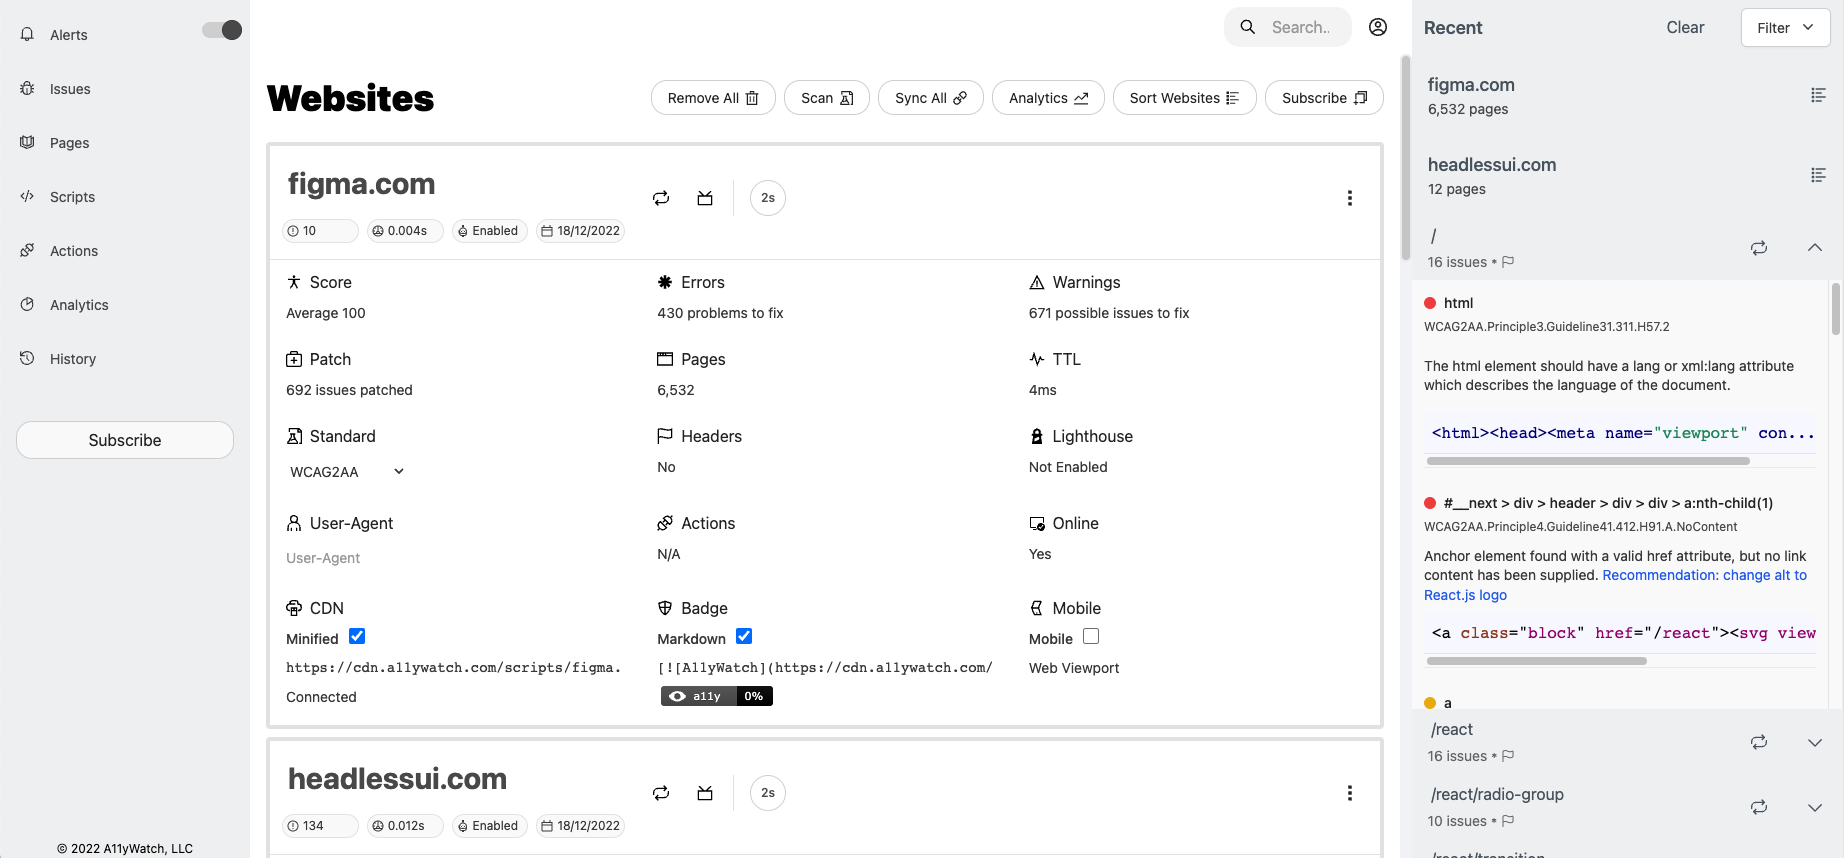
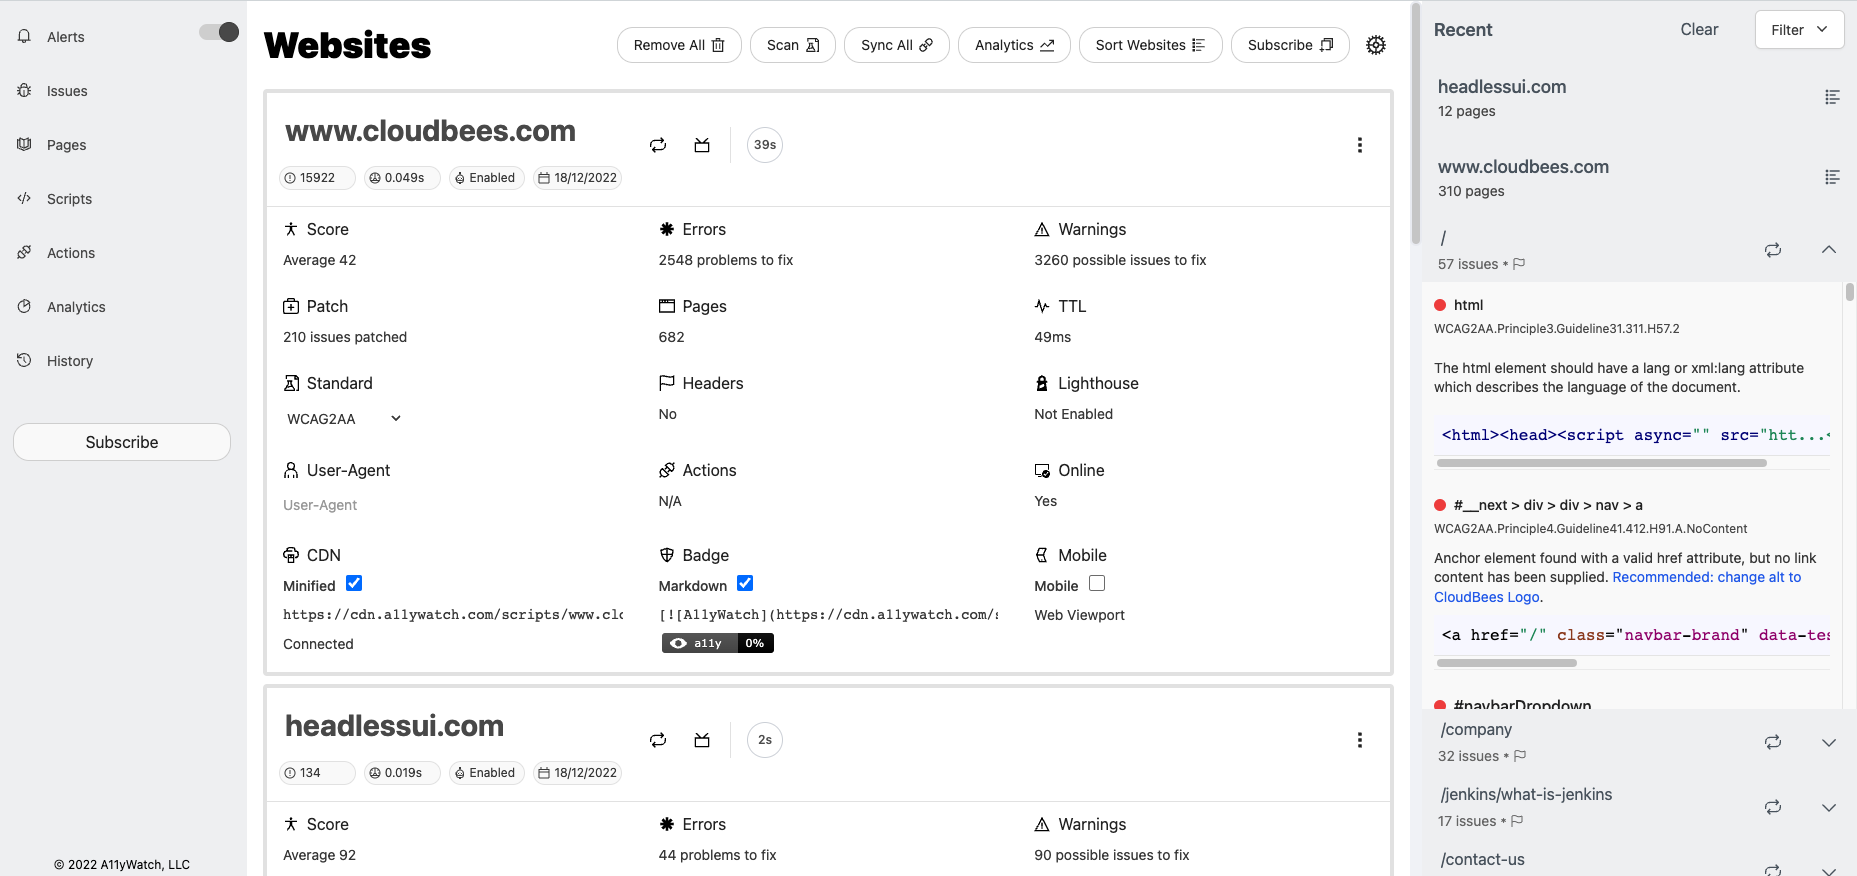
chore(app): revamp dashboard layout center

diff --git a/src/components/general/drawers/drawer.tsx b/src/components/general/drawers/drawer.tsx
@@ -3,7 +3,6 @@ import dynamic from 'next/dynamic'
 import Head from 'next/head'
 import { useUserData } from '@app/data'
 import { UpgradeBanner } from '@app/components/general/upgrade-banner'
-import { useAuthContext } from '@app/components/providers/auth'
 import { AuthedMenu } from '../navigation'
 import { NavBar } from '../navigation/navbar'
 import { FixedCopyRight } from '../fixed-copy-right'
@@ -26,25 +25,16 @@ const MiniPlayer = dynamic(
 export type DrawerWrapperProps = {
   route?: string
   title?: string
-  dataSourceMap: any
   loading?: boolean
 }
 
-function MainDrawerContainerComponent({
-  route,
-  dataSourceMap,
-  loading,
-}: DrawerWrapperProps) {
+function MainDrawerContainerComponent({ route, loading }: DrawerWrapperProps) {
   return (
     <div
       className={`flex flex-col overflow-x-hidden w-[55px] sm:w-[15vw] md:w-[18vw] lg:w-[250px] max-w-[250px] relative print:hidden overflow-hidden`}
     >
       <div className='fixed flex flex-col w-[inherit] overflow-hidden h-full bg-lightgray z-10 space-y-3'>
-        <AuthedMenu
-          dataSourceMap={dataSourceMap}
-          route={route}
-          loading={loading}
-        />
+        <AuthedMenu route={route} loading={loading} />
         <div
           className={
             'xl:visible invisible p-4 place-items-center flex-col flex flex-1'
@@ -66,16 +56,9 @@ export const MainDrawerContainer = memo(MainDrawerContainerComponent)
 export function DrawerWrapperComponent({
   route: routePath,
   title = '',
-  dataSourceMap,
   loading,
 }: DrawerWrapperProps) {
-  return (
-    <MainDrawerContainer
-      route={routePath ?? title}
-      dataSourceMap={dataSourceMap}
-      loading={loading}
-    />
-  )
+  return <MainDrawerContainer route={routePath ?? title} loading={loading} />
 }
 
 export const DrawerWrapper = memo(DrawerWrapperComponent)
@@ -92,9 +75,6 @@ export function NavigationBar({ title = '', authenticated }: any) {
 
 export function DrawerW({ children, route, title }: any) {
   const { data: dataSourceMap, sendConfirmEmail, loading } = useUserData()
-  const { account } = useAuthContext()
-  const { authed } = account
-
   const user = dataSourceMap?.user
 
   return (
@@ -121,19 +101,12 @@ export function DrawerW({ children, route, title }: any) {
       </Head>
       <>
         <div className={'flex overflow-x-inherit md:overflow-x-hidden'}>
-          <DrawerWrapper
-            route={route}
-            title={title}
-            dataSourceMap={dataSourceMap}
-            loading={loading}
-          />
+          <DrawerWrapper route={route} title={title} loading={loading} />
           <main className={'flex-1 overflow-auto'} id='main-content'>
-            <NavigationBar title={title} authenticated={authed} />
             <div
-              style={{
-                maxHeight: `calc(100vh - 55px)`,
-              }}
-              className={'px-3 md:px-4 pt-2 scrollbar overflow-auto'}
+              className={
+                'px-3 md:px-4 pt-2 scrollbar overflow-auto max-h-screen'
+              }
             >
               <RefBanner />
               {children}

diff --git a/src/components/general/menu.tsx b/src/components/general/menu.tsx
@@ -1,14 +1,13 @@
 import { Menu, Transition } from '@headlessui/react'
 import { Fragment, PropsWithChildren, FC } from 'react'
 import { CgProfile } from 'react-icons/cg'
-import { GrMoreVertical } from 'react-icons/gr'
+import { GrMoreVertical, GrSettingsOption } from 'react-icons/gr'
 
 const btnClassName = 'grIcon h-5 w-5'
 
-export const MenuList: FC<PropsWithChildren<{ more?: boolean }>> = ({
-  children,
-  more,
-}) => {
+export const MenuList: FC<
+  PropsWithChildren<{ more?: boolean; settings?: boolean }>
+> = ({ children, more, settings }) => {
   return (
     <div>
       <Menu as='div' className='relative inline-block text-left'>
@@ -16,7 +15,9 @@ export const MenuList: FC<PropsWithChildren<{ more?: boolean }>> = ({
           <Menu.Button
             className={`justify-center rounded-full px-2 py-2 text-sm font-medium text-gray-800 hover:text-gray-700 hover:bg-opacity-30 hover:bg-gray-200 focus:outline-none focus-visible:ring-2 focus-visible:ring-white focus-visible:ring-opacity-75`}
           >
-            {more ? (
+            {settings ? (
+              <GrSettingsOption title='more options' className={btnClassName} />
+            ) : more ? (
               <GrMoreVertical title='more options' className={btnClassName} />
             ) : (
               <CgProfile className={btnClassName} title='profile menu' />

diff --git a/src/pages/web-issues/index.tsx b/src/pages/web-issues/index.tsx
@@ -1,4 +1,4 @@
-import { PageTitle, Drawer } from '@app/components/general'
+import { PageTitle, Drawer, AuthMenu } from '@app/components/general'
 import { List } from '@app/components/general/lists/websites-issues'
 import { metaSetter } from '@app/utils'
 import type { PageProps } from '@app/types'
@@ -6,6 +6,7 @@ import { PageLoader } from '@app/components/placeholders'
 import { useWebsiteContext } from '@app/components/providers/website'
 import { LoadMoreButton } from '@app/components/general/buttons'
 import { useFilterSort } from '@app/data/local'
+import { useAuthContext } from '@app/components/providers/auth'
 
 function WebIssues({ name }: PageProps) {
   const {
@@ -17,11 +18,15 @@ function WebIssues({ name }: PageProps) {
     onLoadMoreIssues,
   } = useWebsiteContext()
   const { sortedData } = useFilterSort(issueData)
+  const { account } = useAuthContext()
 
   return (
     <>
       <Drawer title={name}>
-        <PageTitle title={name} />
+        <PageTitle
+          title={name}
+          rightButton={<AuthMenu authenticated={account.authed} settings />}
+        />
         <PageLoader
           empty={issueData?.length === 0}
           loading={issueDataLoading}

diff --git a/src/pages/settings/index.tsx b/src/pages/settings/index.tsx
@@ -1,5 +1,5 @@
 import React, { useState } from 'react'
-import { PageTitle, Drawer } from '@app/components/general'
+import { PageTitle, Drawer, AuthMenu } from '@app/components/general'
 import { useUserData } from '@app/data'
 import { metaSetter } from '@app/utils'
 import type { PageProps } from '@app/types'
@@ -31,7 +31,10 @@ function Settings({ name }: PageProps) {
   if (!data && !loading) {
     return (
       <div className='px-2'>
-        <PageTitle title={'Settings'} />
+        <PageTitle
+          title={'Settings'}
+          rightButton={<AuthMenu authenticated={data?.user} settings />}
+        />
         <div className='p-4 text-2xl'>
           Authentication required for Settings. Please login to continue.
         </div>
@@ -44,7 +47,10 @@ function Settings({ name }: PageProps) {
   return (
     <>
       <Drawer title={name}>
-        <PageTitle title={'Settings'} />
+        <PageTitle
+          title={'Settings'}
+          rightButton={<AuthMenu authenticated={data?.user} settings />}
+        />
         <h2 className='text-2xl font-bold'>Core Web Vitals</h2>
         <p>
           Core Web Vitals are a set of speed metrics that are part of{' '}

diff --git a/src/components/general/auth-menu.tsx b/src/components/general/auth-menu.tsx
@@ -16,13 +16,14 @@ import { MenuList } from './menu'
 
 type AuthMenuComponentProps = {
   authenticated?: boolean // user logged in
+  settings?: boolean // display settings icon
 }
 
 const menuItemCss =
   'w-full px-4 py-2 md:px-4 h-10 flex text-sm place-items-center place-content-start hover:no-underline hover:bg-gray-100'
 
 // auth menu on the right of the ui
-export function AuthMenu({ authenticated }: AuthMenuComponentProps) {
+export function AuthMenu({ authenticated, settings }: AuthMenuComponentProps) {
   const router = useRouter()
   const [logoutMutation, { data, client }] = useMutation(LOGOUT)
   const { feed } = useWasmContext()
@@ -61,7 +62,7 @@ export function AuthMenu({ authenticated }: AuthMenuComponentProps) {
   ) {
     return (
       <div>
-        <MenuList>
+        <MenuList settings={settings}>
           {router?.pathname !== '/profile' ? (
             <Menu.Item>
               {() => (

diff --git a/src/components/stateless/marketing/dashboard.tsx b/src/components/stateless/marketing/dashboard.tsx
@@ -8,12 +8,15 @@ export function MarketingDashboard(): ReactElement<any, any> | null {
     <SectionContainer>
       <div className='place-content-center place-items-center flex flex-col'>
         <Header3>All the details you need in one location</Header3>
-        <p>Get insight on all of your domains live.</p>
+        <p>
+          Get accessibility insights and vitals across all domains with real
+          time updates.
+        </p>
         <div className='py-4'>
           <Image
-            width={1730}
+            width={1860}
             className={'shadow-xl border rounded'}
-            height={818}
+            height={876}
             quality={100}
             src={'/img/dashboard-example.png'}
             alt={

diff --git a/src/pages/web-pages/index.tsx b/src/pages/web-pages/index.tsx
@@ -5,6 +5,7 @@ import {
   Drawer,
   PriceMemo,
   Spacer,
+  AuthMenu,
 } from '@app/components/general'
 import { List } from '@app/components/general/lists/websites-pages'
 import { useSearchFilter } from '@app/data'
@@ -62,6 +63,7 @@ export function WebPages({ name }: PageProps) {
       <Drawer title={name}>
         <PageTitle
           title={account.activeSubscription ? name : 'Upgrade Required'}
+          rightButton={<AuthMenu authenticated={account.authed} settings />}
         />
         <Spacer height={'8px'} />
         {account.activeSubscription ? <WebPagesPage /> : <PriceMemo navigate />}

diff --git a/src/pages/website-analytics/index.tsx b/src/pages/website-analytics/index.tsx
@@ -5,6 +5,7 @@ import {
   Drawer,
   PriceMemo,
   Spacer,
+  AuthMenu,
 } from '@app/components/general'
 import { List } from '@app/components/general/lists/websites-analytics'
 import { useSearchFilter } from '@app/data'
@@ -67,6 +68,7 @@ function Analytics({ name }: PageProps) {
     <Drawer title={name}>
       <PageTitle
         title={account.activeSubscription ? name : 'Upgrade Required'}
+        rightButton={<AuthMenu authenticated={account.authed} settings />}
       />
       <Spacer height={'8px'} />
       {account.activeSubscription ? <AnalyticsPage /> : <PriceMemo navigate />}

diff --git a/src/pages/scripts/index.tsx b/src/pages/scripts/index.tsx
@@ -5,6 +5,7 @@ import {
   Drawer,
   PriceMemo,
   Spacer,
+  AuthMenu,
 } from '@app/components/general'
 import { List } from '@app/components/general/lists/websites-scripts'
 import { useSearchFilter } from '@app/data'
@@ -71,6 +72,7 @@ function Scripts({ name }: PageProps) {
     <Drawer title={name}>
       <PageTitle
         title={account.activeSubscription ? name : 'Upgrade Required'}
+        rightButton={<AuthMenu authenticated={account.authed} settings />}
       />
       <Spacer height={'8px'} />
       {account.activeSubscription ? <ScriptsPage /> : <PriceMemo navigate />}

diff --git a/src/pages/web-actions/index.tsx b/src/pages/web-actions/index.tsx
@@ -5,6 +5,7 @@ import {
   Drawer,
   PriceMemo,
   Spacer,
+  AuthMenu,
 } from '@app/components/general'
 import { List } from '@app/components/general/lists/websites-pages-actions'
 import { useSearchFilter } from '@app/data'
@@ -62,6 +63,7 @@ function WebActions({ name }: PageProps) {
       <Drawer title={name}>
         <PageTitle
           title={account.activeSubscription ? name : 'Upgrade Required'}
+          rightButton={<AuthMenu authenticated={account.authed} settings />}
         />
         <Spacer height={'8px'} />
         {account.activeSubscription ? (

diff --git a/src/pages/history/index.tsx b/src/pages/history/index.tsx
@@ -6,6 +6,7 @@ import {
   Drawer,
   Spacer,
   PriceMemo,
+  AuthMenu,
 } from '@app/components/general'
 import { useHistory } from '@app/data'
 import { metaSetter } from '@app/utils'
@@ -49,6 +50,7 @@ const History = ({ name }: PageProps) => {
       <Drawer title={name}>
         <PageTitle
           title={account.activeSubscription ? name : 'Upgrade Required'}
+          rightButton={<AuthMenu authenticated={account.authed} settings />}
         />
         <Spacer height={'8px'} />
         {account.activeSubscription ? <HistoryPage /> : <PriceMemo navigate />}

diff --git a/src/components/stripe/formless.tsx b/src/components/stripe/formless.tsx
@@ -30,7 +30,7 @@ export const CheckoutFormless = ({ onToken, plan, price, disabled }: Props) => {
         <Button
           type='submit'
           disabled={disabled}
-          className={`font-bold border text-base px-8 rounded-sm md:px-12 md:rounded-sm min-w-[250px] ${
+          className={`font-bold border text-base px-8 rounded-sm md:px-12 md:rounded-sm min-w-[260px] ${
             disabled ? 'text-black' : 'border-blue-800 text-blue-800'
           }`}
         >
